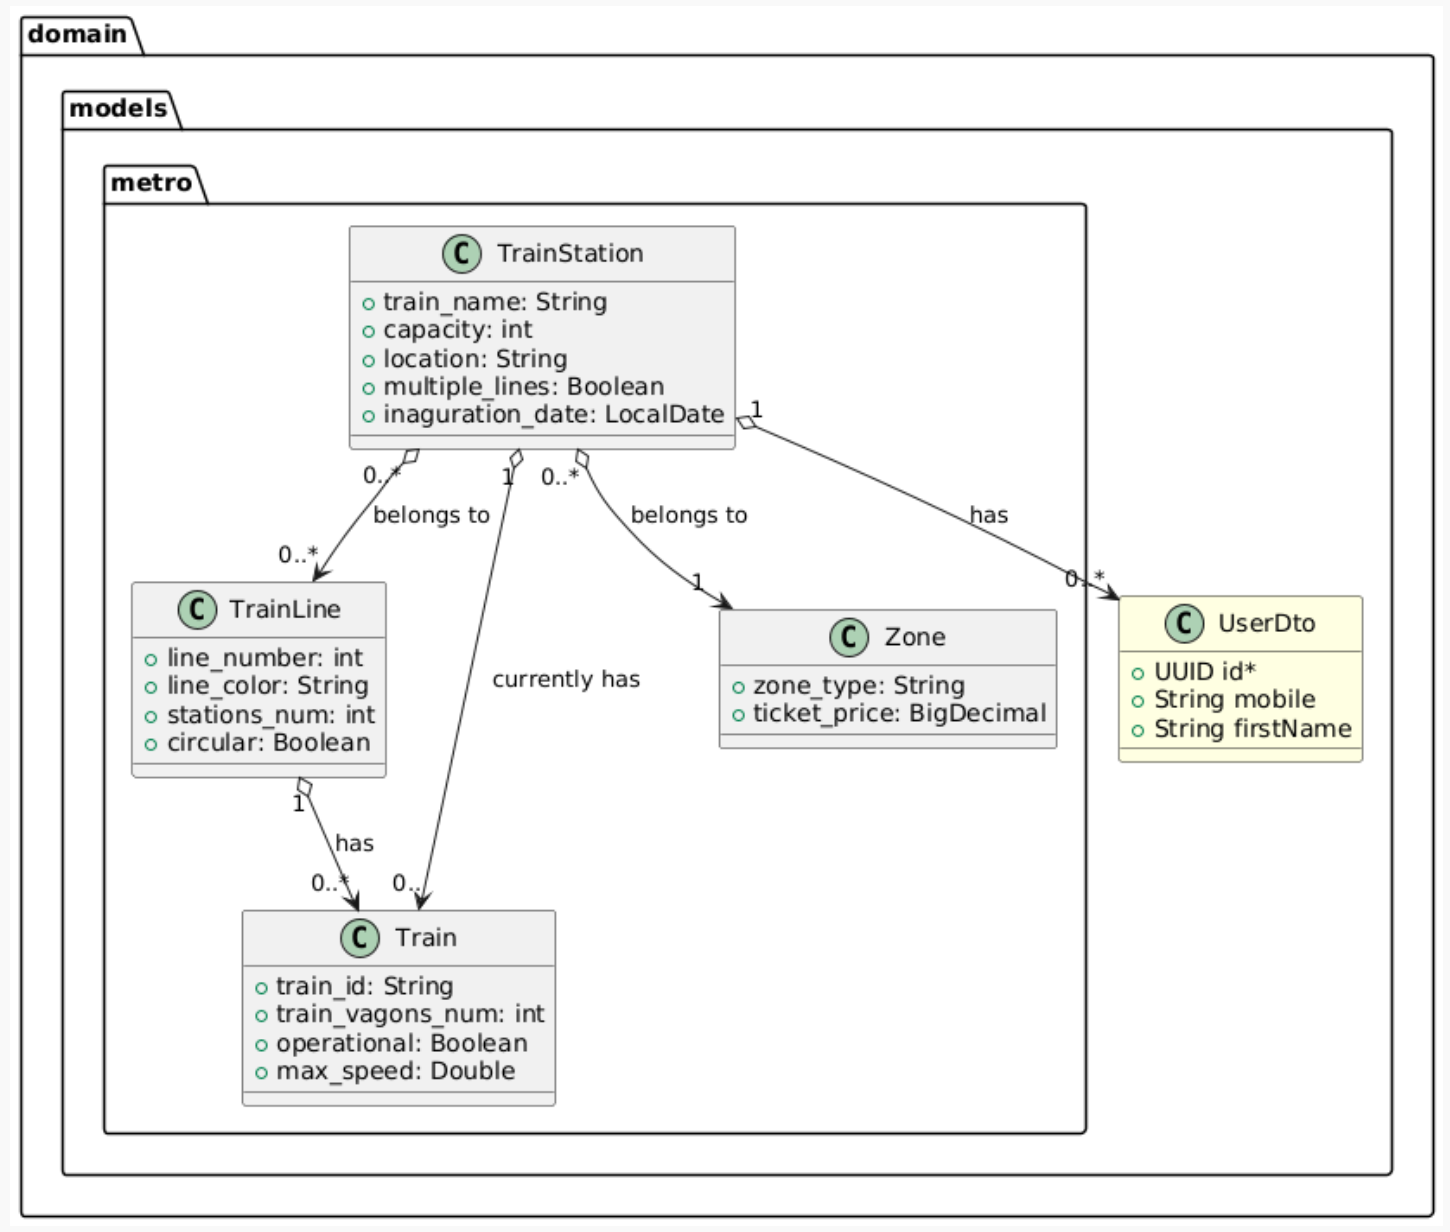
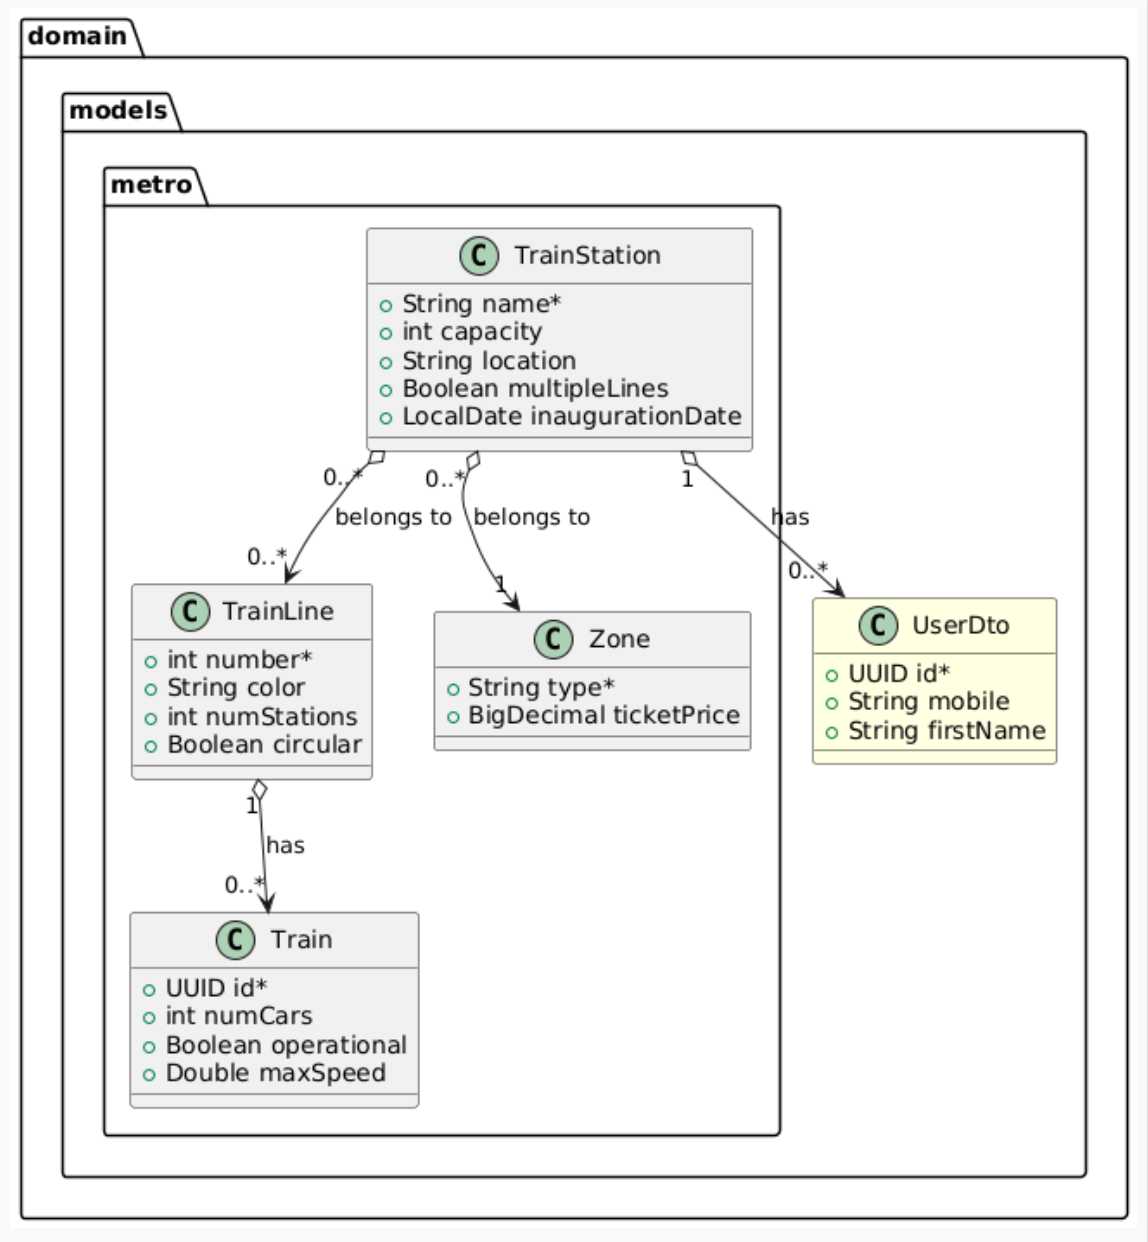
Update classes and model for Metro #1149

Changed region(s): [[0.0, 0.0, 1.0, 1.0], [0.2439, 0.1542, 0.3049, 0.1851]]

diff --git a/src/main/java/es/upm/miw/apaw/domain/models/metro/Train.java b/src/main/java/es/upm/miw/apaw/domain/models/metro/Train.java
@@ -7,6 +7,8 @@ import lombok.Builder;
 import lombok.Data;
 import lombok.NoArgsConstructor;
 
+import java.util.UUID;
+
 @Builder
 @Data
 @NoArgsConstructor
@@ -14,18 +16,14 @@ import lombok.NoArgsConstructor;
 public class Train {
 
     @NotBlank
-    private String trainId;
+    private UUID id;
 
     @NotNull
-    private Integer trainVagonsNum;
+    private Integer numCars;
 
     @NotNull
     private Boolean operational;
 
     @NotNull
     private Double maxSpeed;
-
-    // Relationships
-    private TrainLine trainLine;       // belongs to 1 TrainLine
-    private TrainStation trainStation; // belongs to 0..1 TrainStation
 }

diff --git a/src/main/java/es/upm/miw/apaw/domain/models/metro/TrainLine.java b/src/main/java/es/upm/miw/apaw/domain/models/metro/TrainLine.java
@@ -14,20 +14,18 @@ import java.util.List;
 @NoArgsConstructor
 @AllArgsConstructor
 public class TrainLine {
-
     @NotNull
-    private Integer lineNumber;
+    private Integer number;
 
     @NotBlank
-    private String lineColor;
+    private String color;
 
     @NotNull
-    private Integer stationsNum;
+    private Integer numStations;
 
     @NotNull
     private Boolean circular;
 
     // Relationships
     private List<Train> trains;              // TrainLine has 0..* Trains
-    private List<TrainStation> trainStations; // TrainLine belongs to 0..* TrainStations
 }

diff --git a/src/main/java/es/upm/miw/apaw/domain/models/metro/TrainStation.java b/src/main/java/es/upm/miw/apaw/domain/models/metro/TrainStation.java
@@ -17,7 +17,7 @@ import java.util.List;
 public class TrainStation {
 
     @NotBlank
-    private String trainName;
+    private String name;
 
     @NotNull
     private Integer capacity;
@@ -33,6 +33,5 @@ public class TrainStation {
 
     // Relationships
     private List<TrainLine> trainLines;  // 0..* TrainLine belongs to TrainStation
-    private List<Train> trains;          // 0..* Train currently has TrainStation
     private Zone zone;                   // belongs to one Zone
 }

diff --git a/src/main/java/es/upm/miw/apaw/domain/models/metro/Zone.java b/src/main/java/es/upm/miw/apaw/domain/models/metro/Zone.java
@@ -8,7 +8,6 @@ import lombok.Data;
 import lombok.NoArgsConstructor;
 
 import java.math.BigDecimal;
-import java.util.List;
 
 @Builder
 @Data
@@ -17,11 +16,8 @@ import java.util.List;
 public class Zone {
 
     @NotBlank
-    private String zoneType;
+    private String type;
 
     @NotNull
     private BigDecimal ticketPrice;
-
-    // Relationships
-    private List<TrainStation> trainStations; // Zone has 0..* TrainStations
 }
